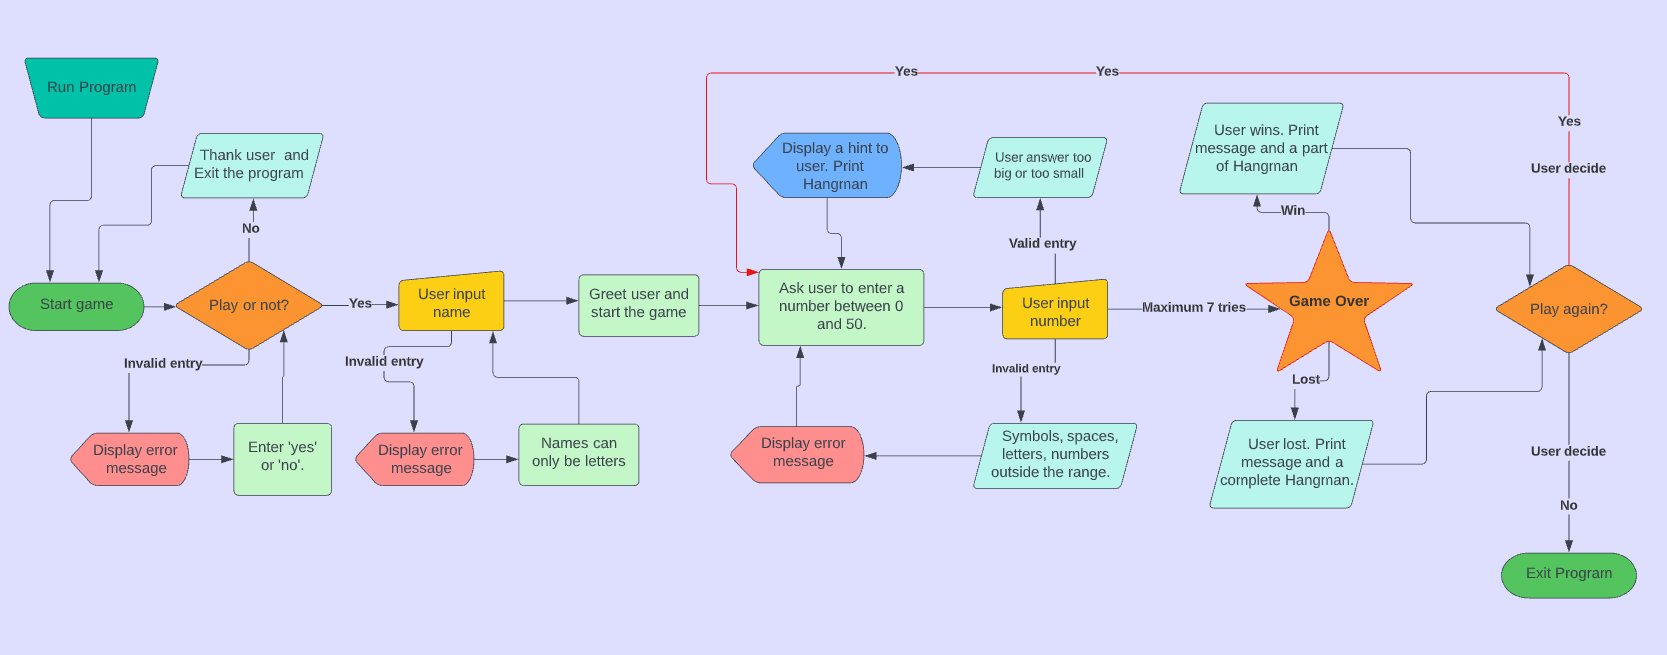
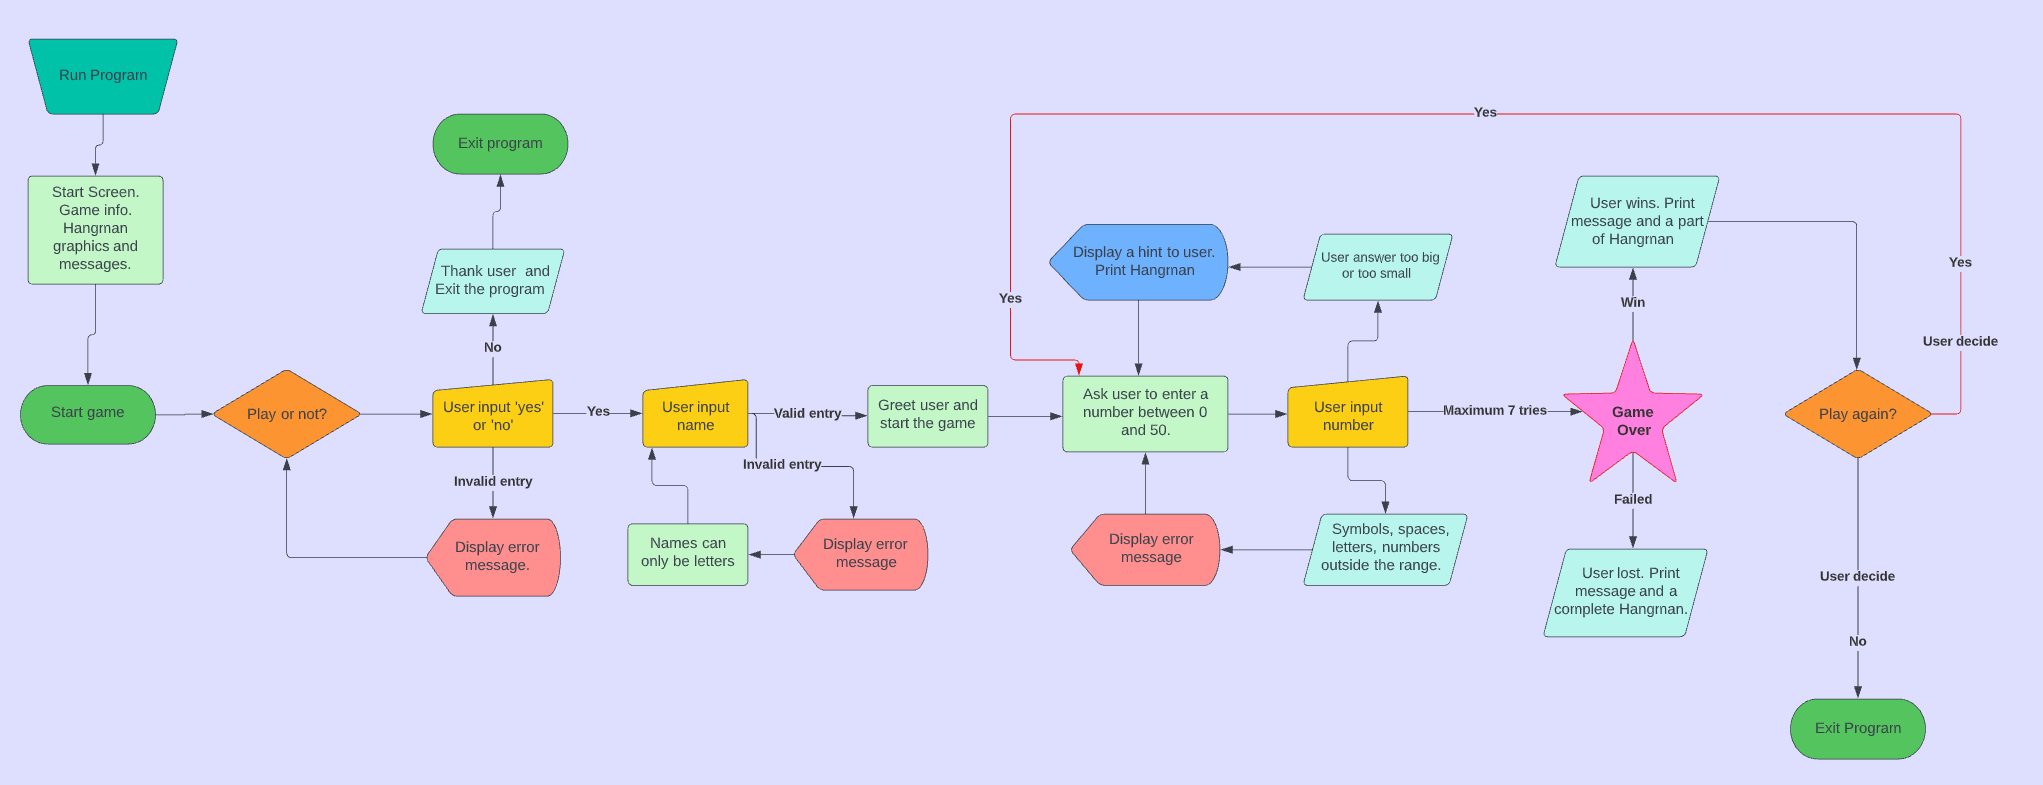
Update the table of contents, flow chart and input testing screenshots in README file.

diff --git a/README.md b/README.md
@@ -8,11 +8,13 @@ Click here to view the live site [Hangman Game](https://vl-pp3.herokuapp.com/)
 
 ![Hangman Game](screenshots/screens.png)
 
-Table of Contents
+# Table of Contents
   - [How To Play](#how-to-play)
   - [User Experience UX](#user-experience-ux)
     - [User Stories](#user-stories)
     - [Site Owner Stories](#site-owner-stories)
+    - [Data Model](#data-model)
+      - [Python Logic Flow Chart](#python-logic-flow-chart)
   - [Existing Features](#existing-features)
     - [Start Screen](#start-screen)
     - [Exit Screen](#exit-screen)
@@ -28,14 +30,10 @@ Table of Contents
     - [Terminal Testing](#terminal-testing)
     - [Testing User Stories](#testing-user-stories)
     - [Resolved Bug](#resolved-bug)
-  - [Libraries](#libraries)
-    - [Random](#random)
-    - [Colorama](#colorama)
   - [Deployment](#deployment)
     - [Deploy the project to Heroku](#deploy-the-project-to-heroku)
   - [Credit](#credit)
   - [Acknowledgement](#acknowledgement)
-
 
 ## How To Play
 
@@ -50,7 +48,6 @@ Table of Contents
 * It asks user if user would like to play again after both win or lost the game. If user’s answer is ‘no’, then the program exits. If user’s answer is ‘yes’, then user can continue playing the game.
 
 [Back to top](#hangman-game)
-
 
 
 ## User Experience UX
@@ -76,6 +73,8 @@ Table of Contents
  The logic flow chart was created using ***Lucidchart*** to show the program's logics.
 
  ![Flow chart](screenshots/lucidchart.png)
+
+ [Back to top](#hangman-game)
 
 ## Existing Features
 
@@ -181,15 +180,21 @@ I have tested the inputs during the project development.
 * It displays error message when user enters something neither 'yes' nor 'no'.
   
   ![Error2](screenshots/error2.png)
+
+[Back to top](#hangman-game)
   
 
 * It displays error message when user enters anything else rather than the numbers where it requires to enter a number. The special symbols, letters, whitespace, numbers smaller than 0 or bigger than 50, decimal numbers are all invalid entry.
 
   ![Error1](screenshots/numerror.png)
 
+[Back to top](#hangman-game)
+
 * It displays error message when user enters numbers, symbols, whitespace rather than letters for the user's name.
 
   ![Name error](screenshots/nameerror.png)
+
+[Back to top](#hangman-game)
 
 
 ### Terminal Testing 
